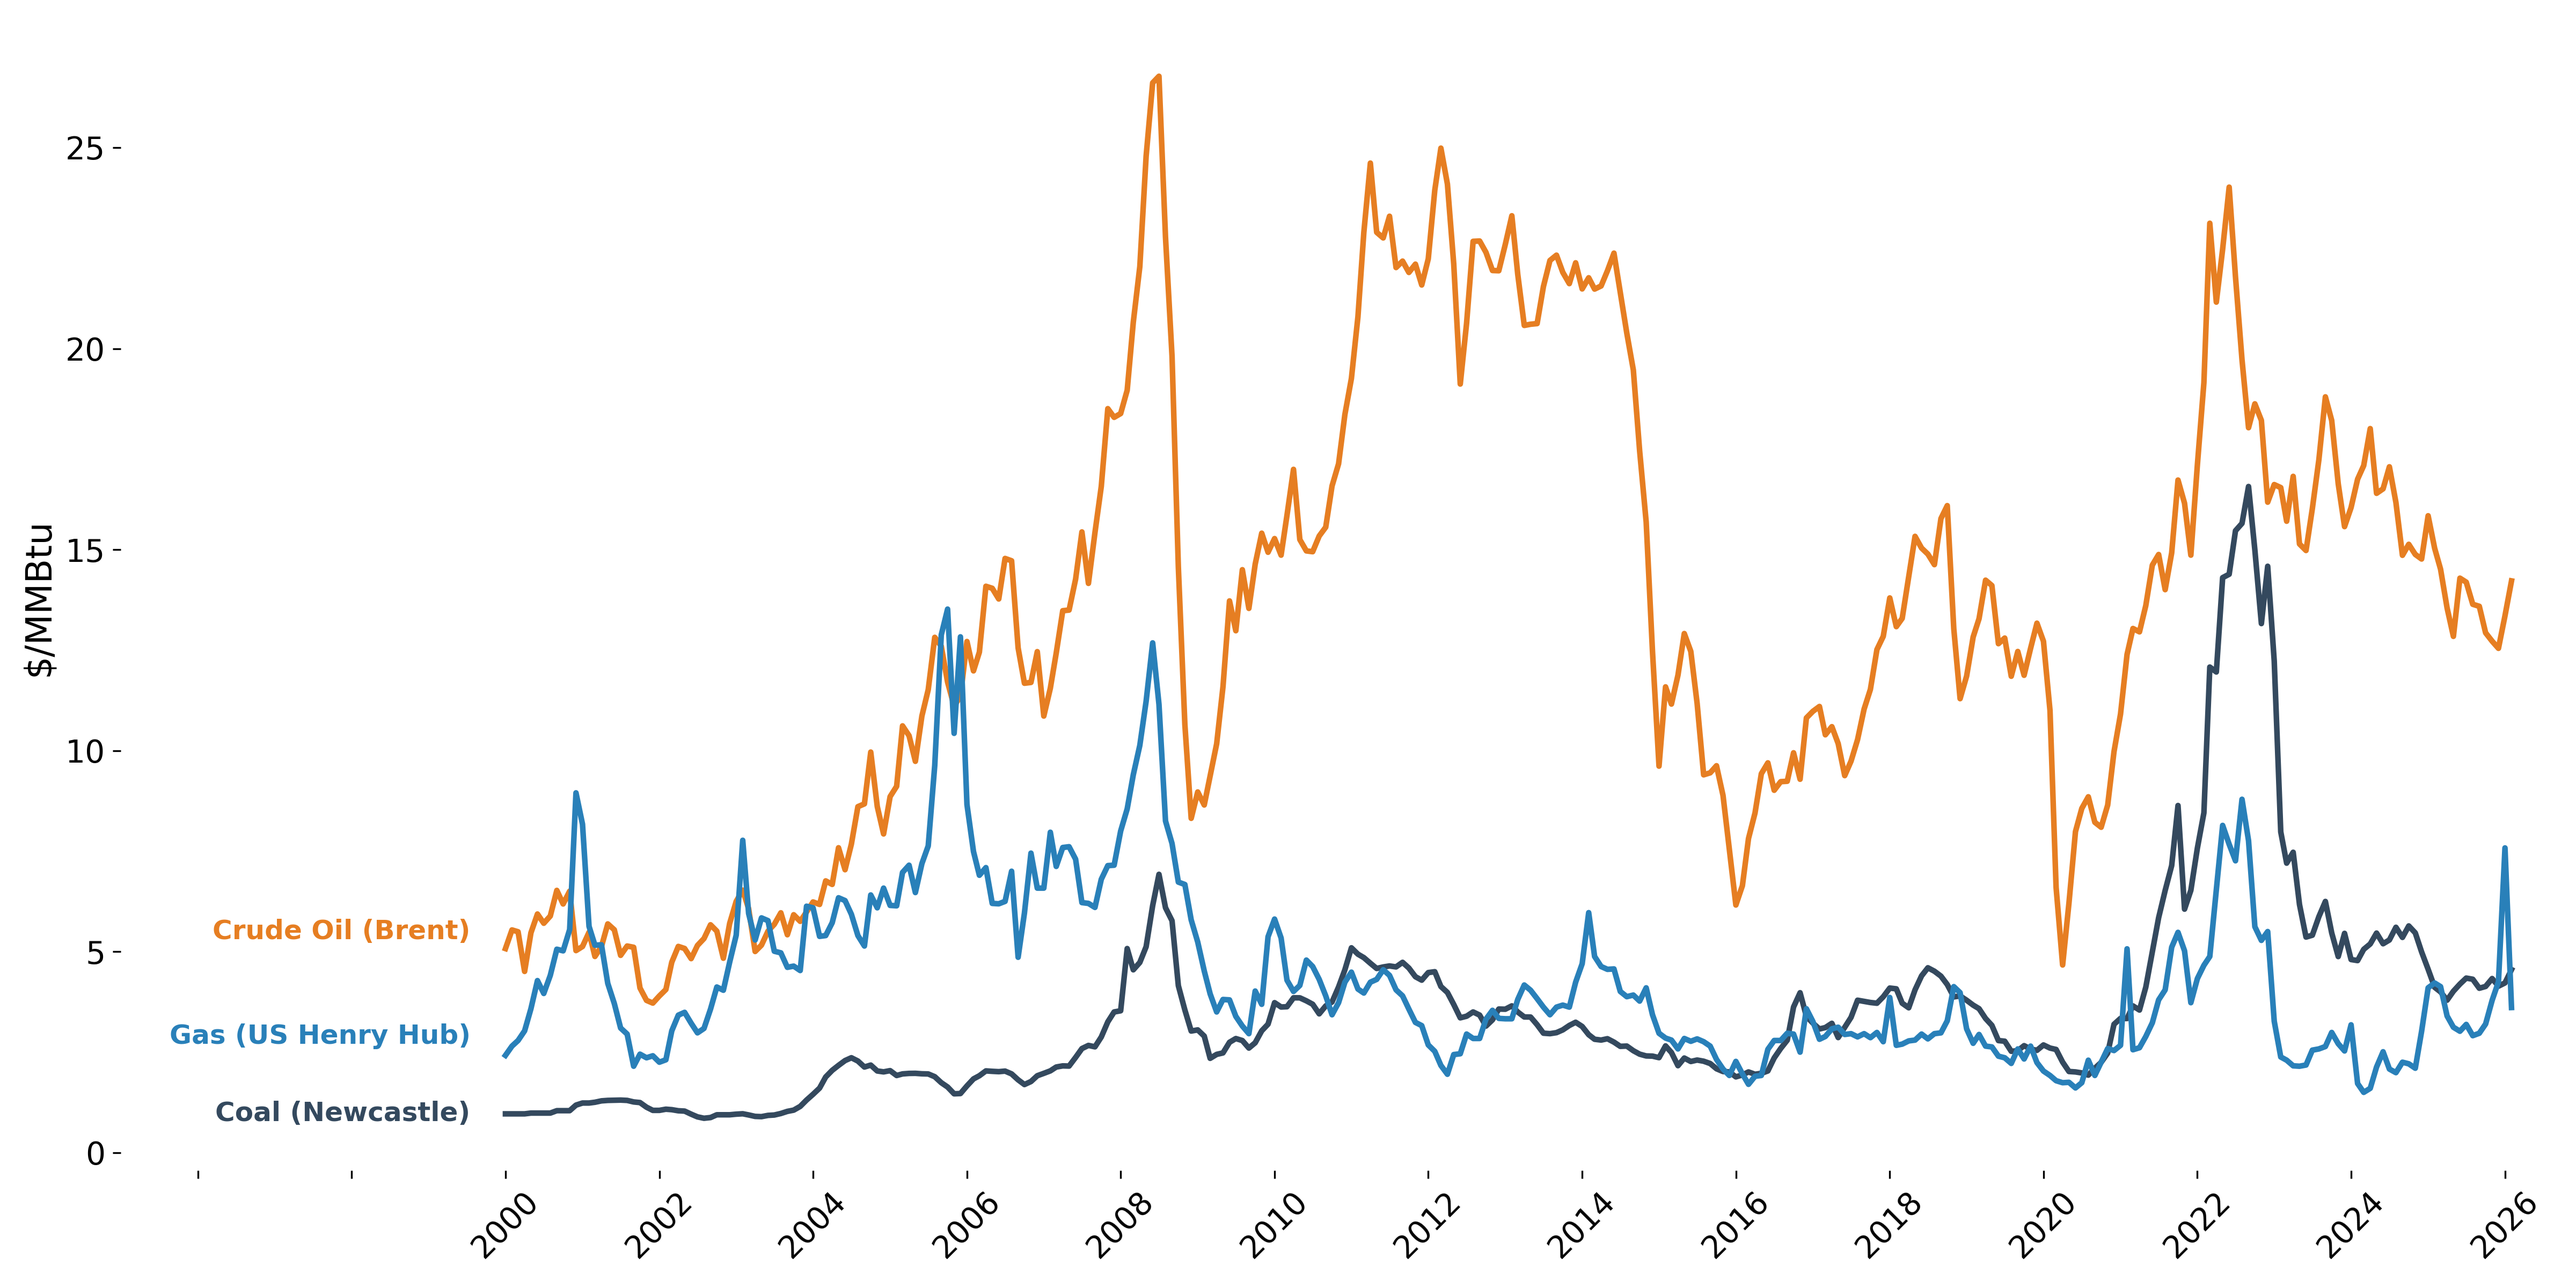
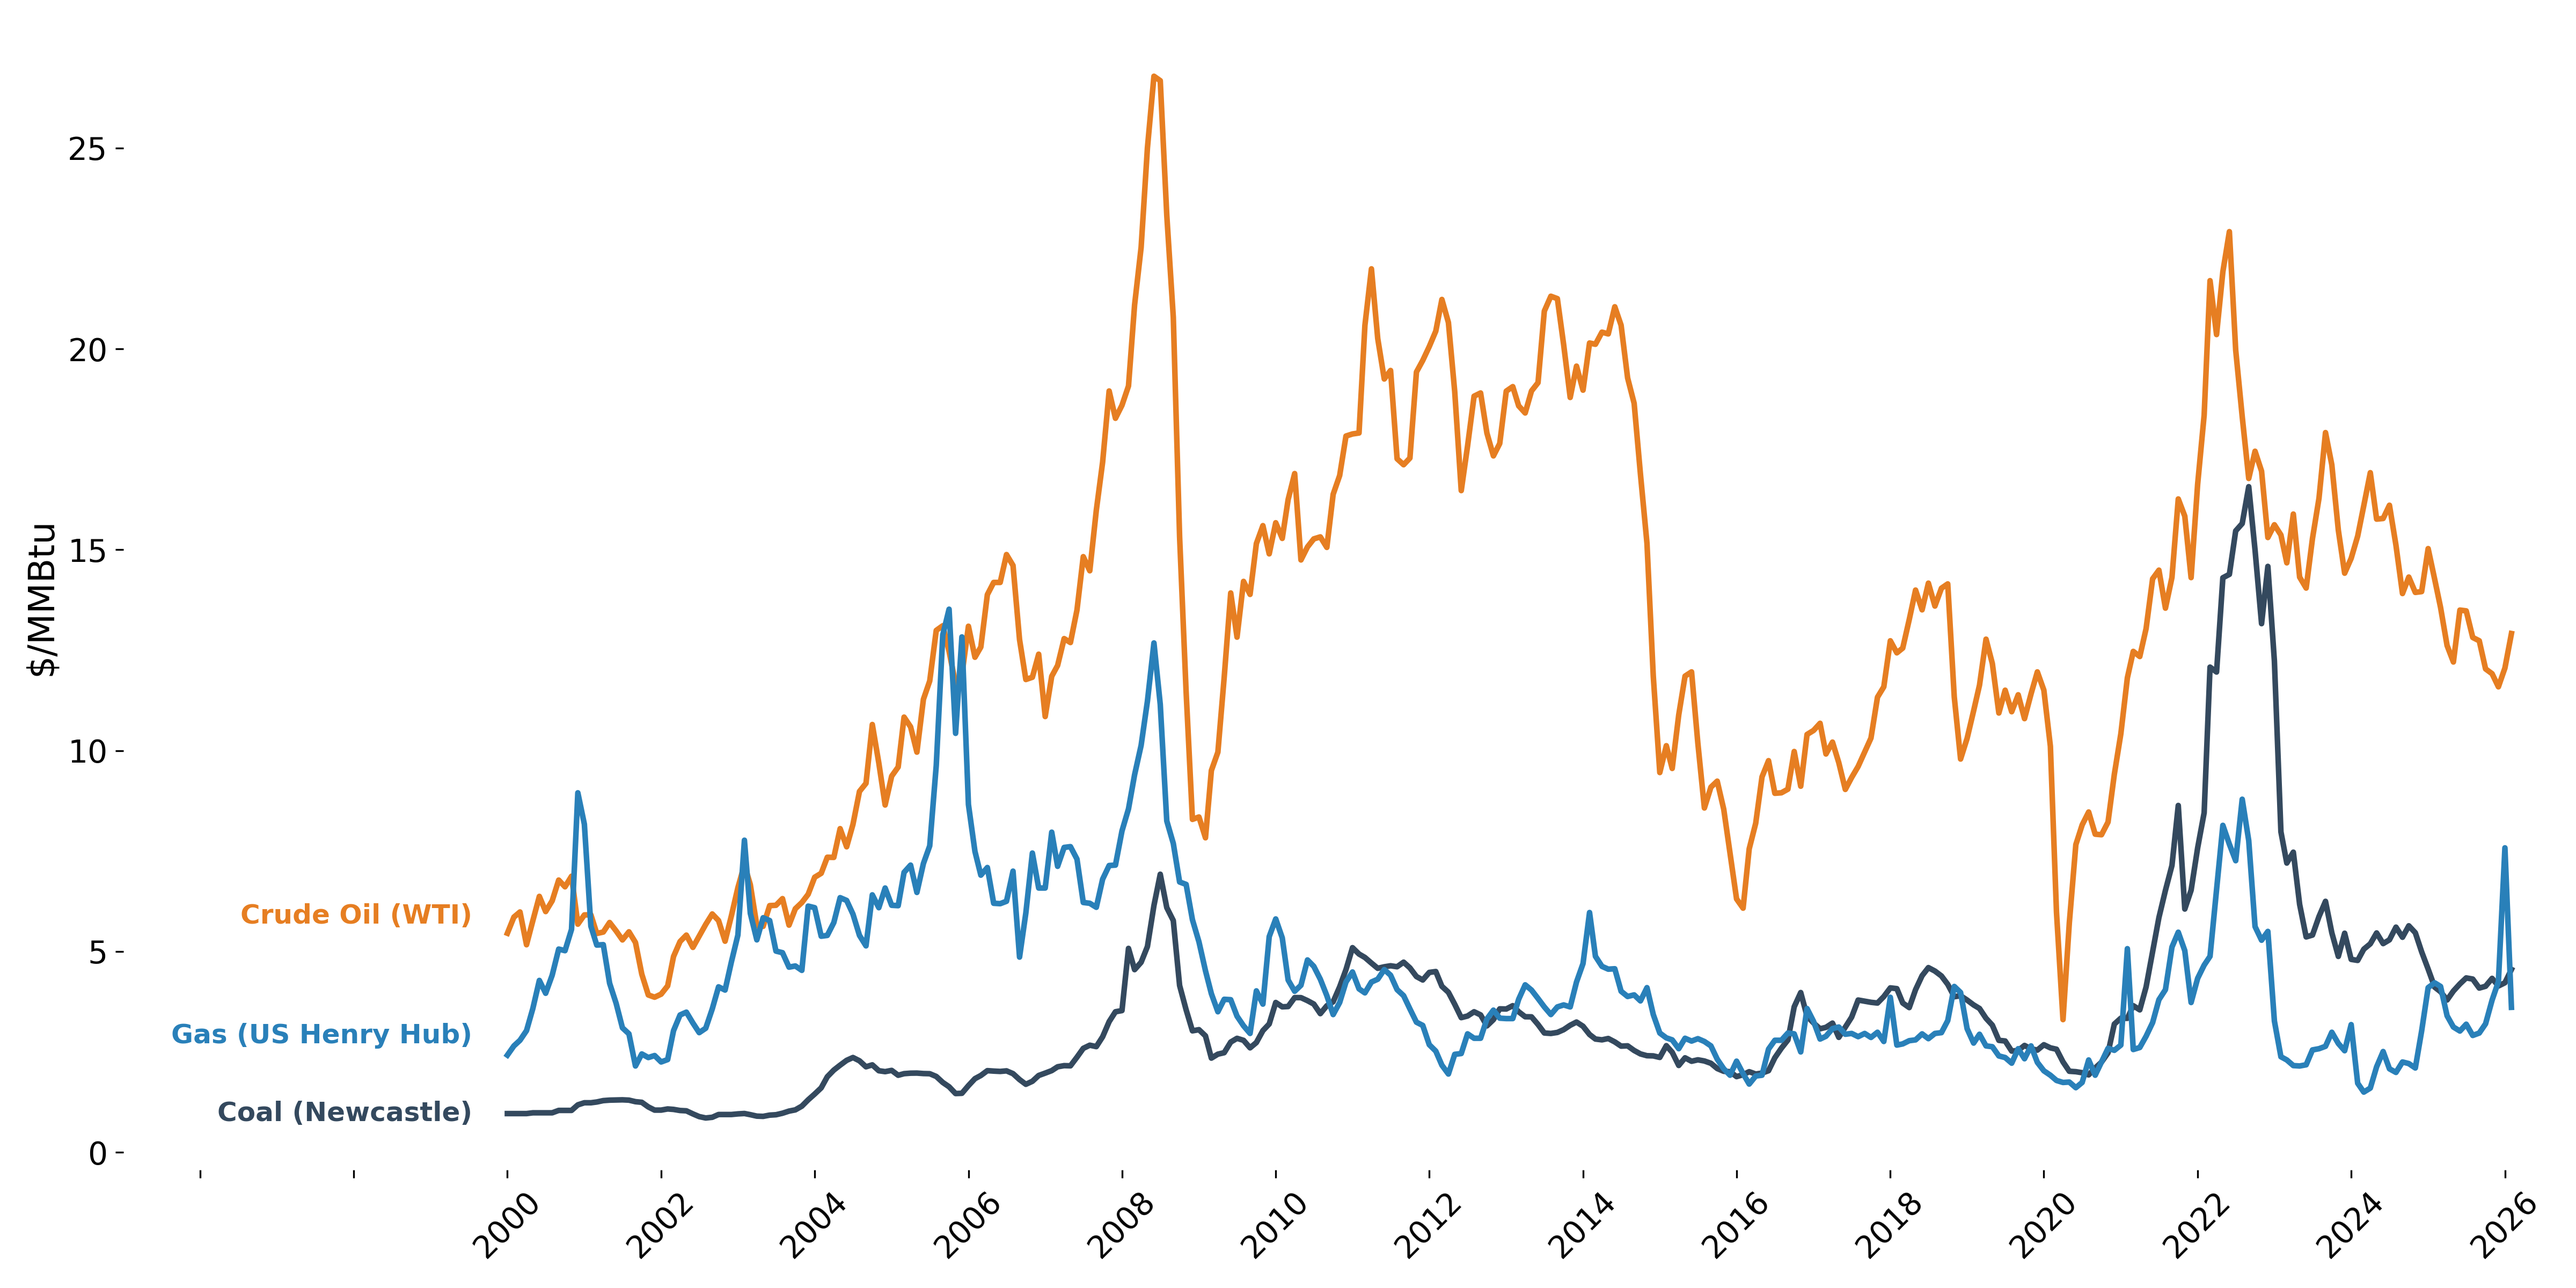
new plot and data

diff --git a/allfuels_prices_EIA.py b/allfuels_prices_EIA.py
@@ -1,0 +1,122 @@
+import pandas as pd
+import matplotlib.pyplot as plt
+import matplotlib.dates as mdates
+
+# 1. Load Data
+# UPDATE THIS PATH to where your new EIA dataset is saved
+file_path = '/Users/dannysalingerbrown/Desktop/Energy-Graphs-Misc/data/EIA_PriceData.csv' 
+df = pd.read_csv(file_path)
+
+# 2. Clean and Pivot Data
+# Drop the "13th month" rows (which represent annual averages in EIA data)
+df = df[df['YYYYMM'] % 100 != 13].copy()
+
+# Convert YYYYMM to datetime
+df['Date'] = pd.to_datetime(df['YYYYMM'], format='%Y%m', errors='coerce')
+
+# Ensure the 'Value' column is numeric
+df['Value'] = pd.to_numeric(df['Value'], errors='coerce')
+
+# Map the descriptions to our specific categories using partial string matching
+def categorize_fuel(desc):
+    desc = str(desc)
+    if 'Cost of Coal' in desc:
+        return 'Coal'
+    elif 'Cost of Natur' in desc:
+        return 'Gas'
+    elif 'Cost of Distil' in desc:
+        return 'Distillate'
+    elif 'Cost of Resid' in desc:
+        return 'Residual'
+    return None
+
+df['Fuel'] = df['Description'].apply(categorize_fuel)
+
+# Drop rows that don't match our target fuels
+df = df.dropna(subset=['Fuel'])
+
+# Pivot the table to get dates as rows and fuels as columns
+df_pivot = df.pivot_table(index='Date', columns='Fuel', values='Value', aggfunc='mean').reset_index()
+
+# Calculate the average of Distillate and Residual for the combined Oil price
+df_pivot['Oil_MMBtu'] = df_pivot[['Distillate', 'Residual']].mean(axis=1)
+
+# Standardize column names for the plotting function (No division needed, already in $/MMBtu)
+df_pivot['Coal_MMBtu'] = df_pivot['Coal']
+df_pivot['Gas_MMBtu'] = df_pivot['Gas']
+
+# Filter for year 2000 onwards and drop rows missing data for our 3 main lines
+df_filtered = df_pivot[df_pivot['Date'] >= '2000-01-01'].copy().dropna(subset=['Oil_MMBtu', 'Coal_MMBtu', 'Gas_MMBtu'])
+
+# 3. Plotting Setup
+# Define colors
+color_oil = '#e67e22' 
+color_coal = '#34495e' 
+color_gas = '#2980b9' 
+
+def plot_fuels(ax):
+    # Plotting lines
+    ax.plot(df_filtered['Date'], df_filtered['Oil_MMBtu'], color=color_oil, linewidth=2.5)
+    ax.plot(df_filtered['Date'], df_filtered['Coal_MMBtu'], color=color_coal, linewidth=2.5)
+    ax.plot(df_filtered['Date'], df_filtered['Gas_MMBtu'], color=color_gas, linewidth=2.5)
+    
+    ax.set_ylabel('$/MMBtu', fontsize=16)
+    ax.set_xlabel('', fontsize=16)
+    
+    # Labels at the START (Left side)
+    first_date = df_filtered['Date'].iloc[0]
+    
+    # We use a very small horizontal offset for the text itself
+    label_date = first_date - pd.DateOffset(months=4)
+    
+    # OIL: Sits slightly above its line
+    ax.text(label_date, df_filtered['Oil_MMBtu'].iloc[0] + 0.1, 'Fuel Oil (Avg Resid/Dist) ', 
+            color=color_oil, fontweight='bold', ha='right', va='bottom', fontsize=12)
+    
+    # GAS: Sits slightly above its line
+    ax.text(label_date, df_filtered['Gas_MMBtu'].iloc[0] + 0.8, 'Natural Gas ', 
+            color=color_gas, fontweight='bold', ha='right', va='top', fontsize=12)
+    
+    # COAL: Sits centered at its line
+    ax.text(label_date, df_filtered['Coal_MMBtu'].iloc[0], 'Coal ', 
+            color=color_coal, fontweight='bold', ha='right', va='center', fontsize=12)
+
+    # X-axis formatting
+    ax.xaxis.set_major_locator(mdates.YearLocator(2))
+    ax.xaxis.set_major_formatter(mdates.DateFormatter('%Y'))
+    
+    # Limit to provide a clear margin for the text
+    ax.set_xlim(left=pd.Timestamp('1995-01-01'), right=df_filtered['Date'].max() + pd.DateOffset(months=6))
+    
+    # Hide all year labels before 2000
+    plt.draw() 
+    labels = ax.get_xticklabels()
+    for l in labels:
+        try:
+            year_val = int(l.get_text())
+            if year_val < 2000:
+                l.set_visible(False)
+        except:
+            pass
+            
+    ax.tick_params(axis='x', rotation=45)
+    ax.tick_params(axis='both', which='major', labelsize=14)
+
+# --- GRAPH 1: STANDARD WITH BOX ---
+plt.figure(figsize=(16, 8)) 
+plot_fuels(plt.gca())
+plt.tight_layout()
+plt.savefig('/Users/dannysalingerbrown/Desktop/Energy-Graphs-Misc/eia_fuels_with_spines.png', dpi=300, transparent=True)
+plt.show()
+
+# --- GRAPH 2: CLEAN WITHOUT BOX ---
+plt.figure(figsize=(16, 8))
+ax2 = plt.gca()
+plot_fuels(ax2)
+
+for side in ['top', 'right', 'left', 'bottom']:
+    ax2.spines[side].set_visible(False)
+
+plt.tight_layout()
+plt.savefig('/Users/dannysalingerbrown/Desktop/Energy-Graphs-Misc/eia_fuels_no_spines.png', dpi=300, transparent=True)
+plt.show()

diff --git a/fuelprices_overlay_2000-presesnt.py b/fuelprices_overlay_2000-presesnt.py
@@ -8,7 +8,7 @@ df = pd.read_csv(file_path, skiprows=4)
 df = df.rename(columns={df.columns[0]: 'Date'})
 df['Date'] = pd.to_datetime(df['Date'].str.replace('M', '-'), errors='coerce')
 
-oil_col = 'Crude oil, Brent'
+oil_col = 'Crude oil, WTI'
 coal_col = 'Coal, Australian'
 gas_col = 'Natural gas, US'
 
@@ -44,7 +44,7 @@ def plot_fuels(ax):
     label_date = first_date - pd.DateOffset(months=4)
     
     # OIL: Sits slightly above its line
-    ax.text(label_date, df_filtered['Oil_MMBtu'].iloc[0] + 0.1, 'Crude Oil (Brent) ', 
+    ax.text(label_date, df_filtered['Oil_MMBtu'].iloc[0] + 0.1, 'Crude Oil (WTI) ', 
             color=color_oil, fontweight='bold', ha='right', va='bottom', fontsize=12)
     
     # GAS: Sits slightly above its line
